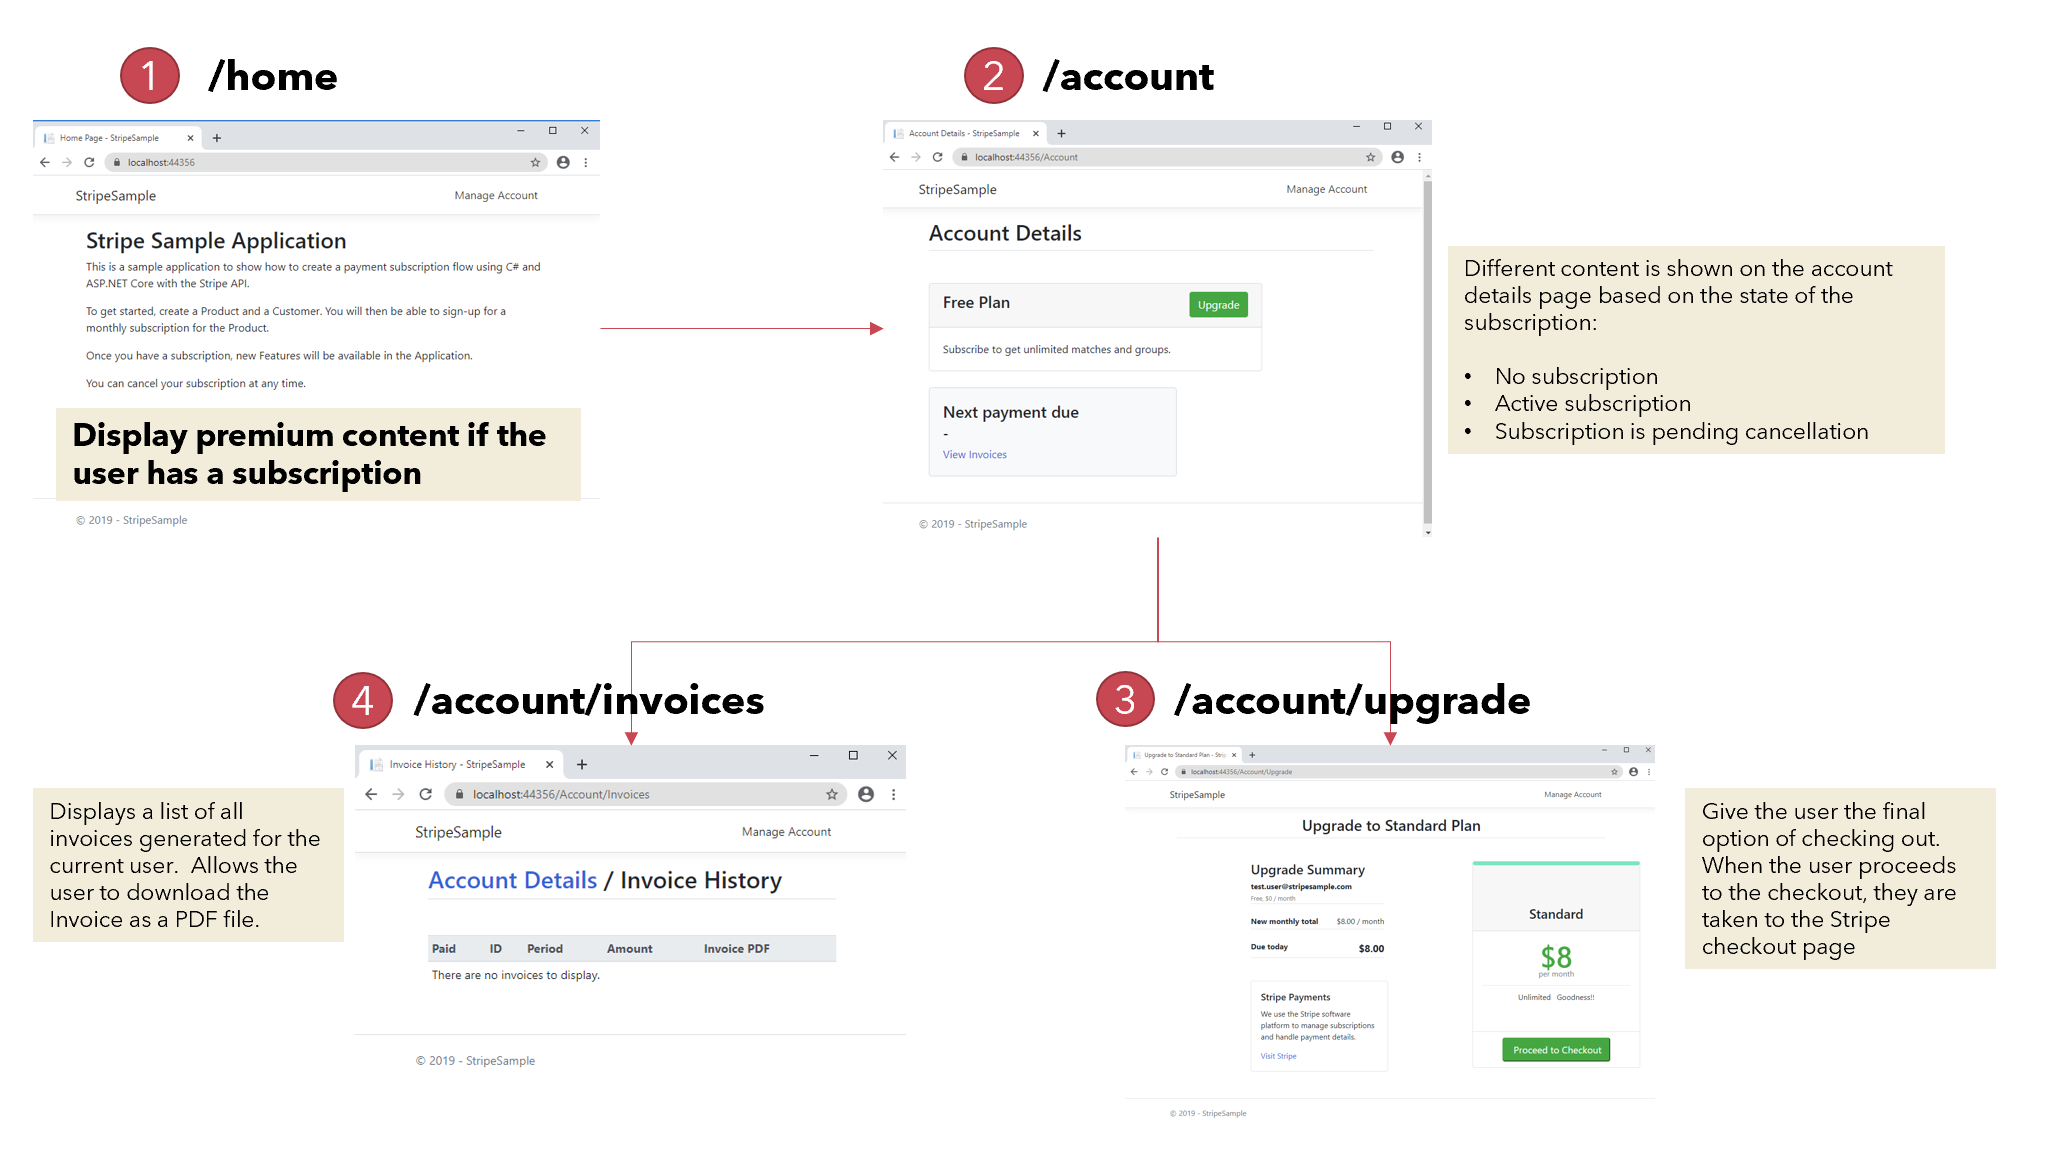
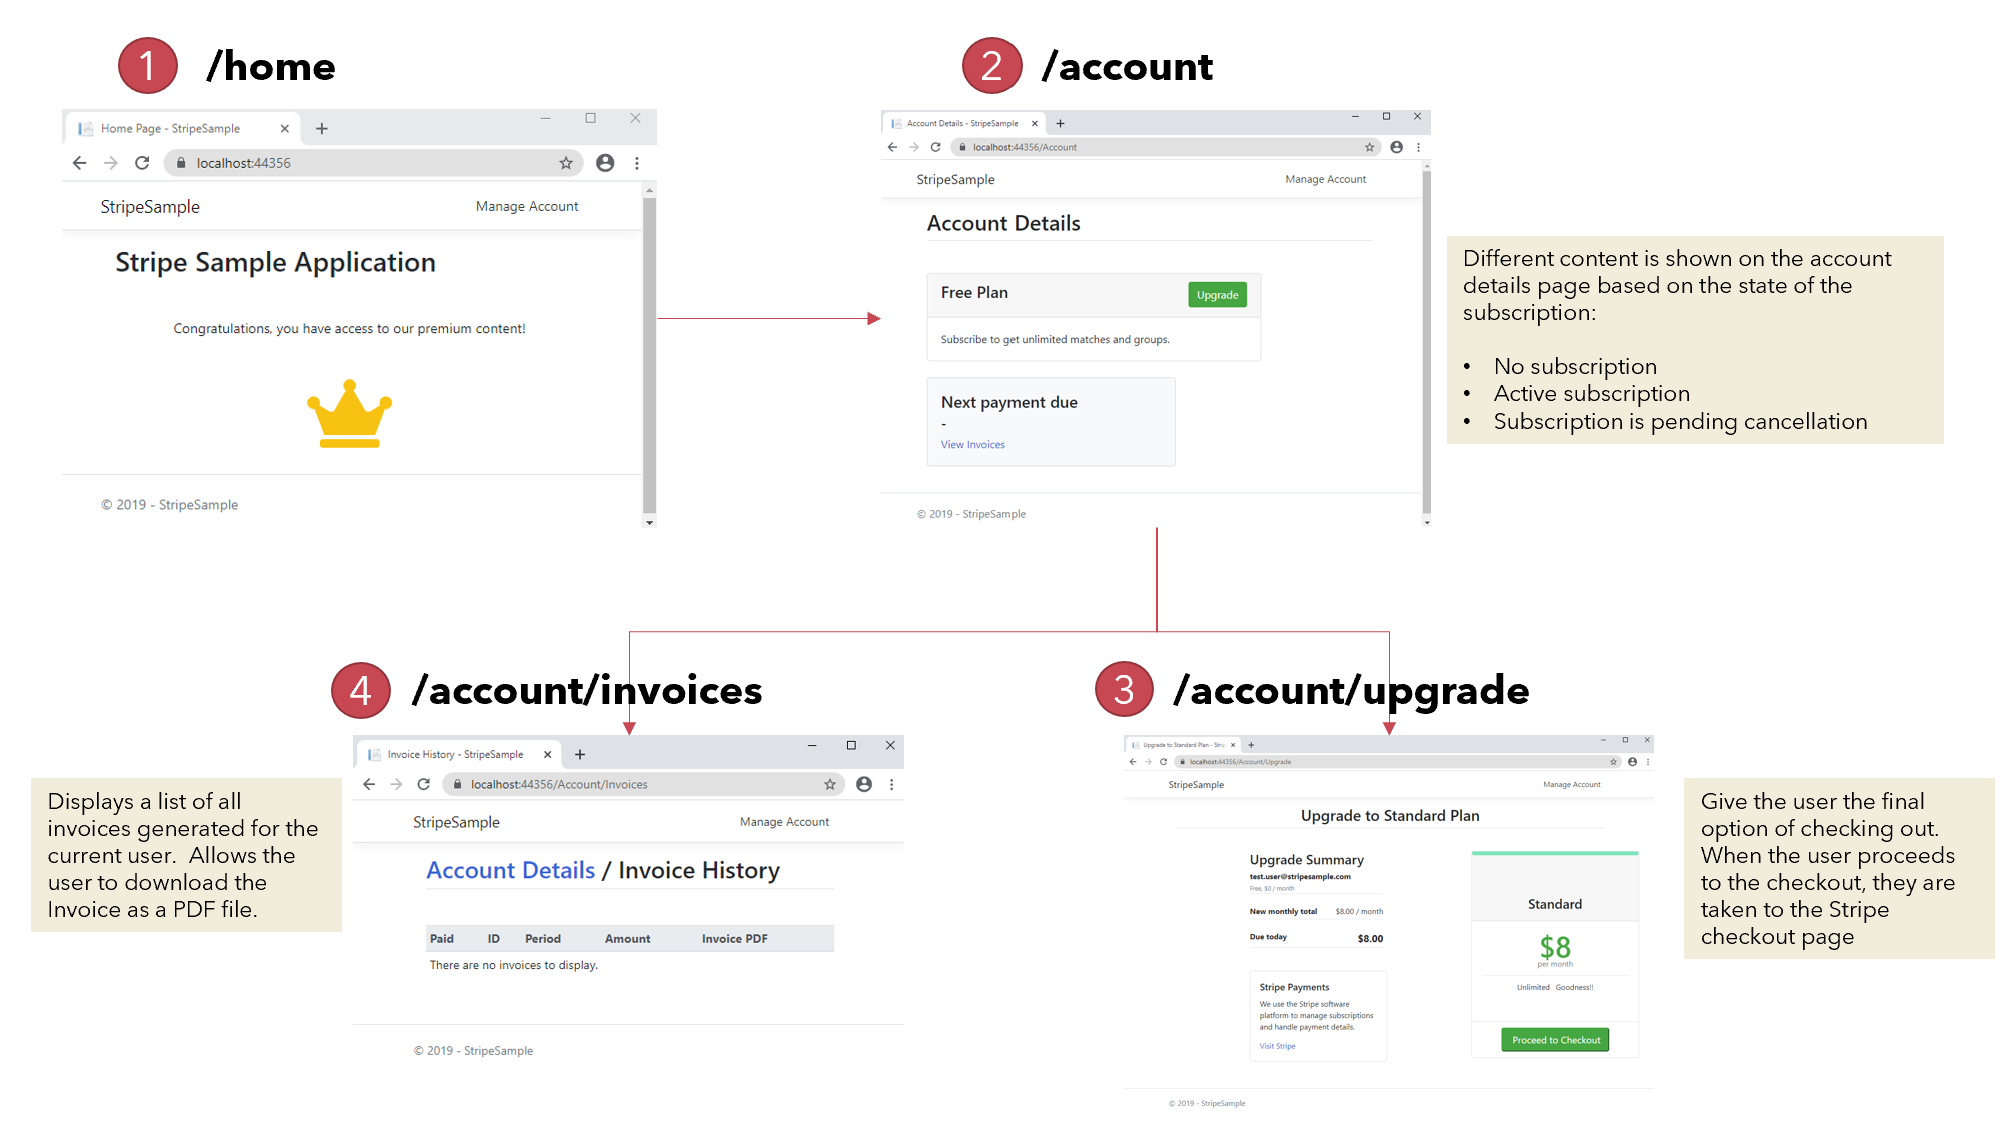
Added view logic

diff --git a/src/StripeSample/Handlers/HomePage.cs b/src/StripeSample/Handlers/HomePage.cs
@@ -1,0 +1,57 @@
+using MediatR;
+using Microsoft.EntityFrameworkCore;
+using StripeSample.Domain;
+using StripeSample.Infrastructure.Data;
+using System.Linq;
+using System.Threading;
+using System.Threading.Tasks;
+
+namespace StripeSample.Handlers
+{
+    public static class HomePage
+    {
+        public class Request : IRequest<ViewModel>
+        {
+
+        }
+
+        public class ViewModel
+        {
+            public ViewModel(bool hasSubscription)
+            {
+                HasSubscription = hasSubscription;
+            }
+
+            public bool HasSubscription { get; set; } = false;
+        }
+
+
+        public class RequestHandler : IRequestHandler<Request, ViewModel>
+        {
+            private readonly SubscriptionsContext _dbContext;
+            private readonly UserContext _userContext;
+
+            public RequestHandler(SubscriptionsContext dbContext, UserContext userContext)
+            {
+                _dbContext = dbContext;
+                _userContext = userContext;
+            }
+
+
+            public async Task<ViewModel> Handle(Request request, CancellationToken cancellationToken)
+            {
+                var customer = await _dbContext.Customer
+                    .Include(x => x.Subscriptions).ThenInclude(x => x.Status)
+                    .FirstOrDefaultAsync(x => x.IdentityKey == _userContext.Id.ToString());
+
+                if (customer == null)
+                {
+                    return new ViewModel(false);
+                }
+
+                var hasSubscription = customer.Subscriptions.Any(x => x.Status.Id == SubscriptionStatus.Active.Id);
+                return new ViewModel(hasSubscription);
+            }
+        }
+    }
+}

diff --git a/src/StripeSample/Controllers/HomeController.cs b/src/StripeSample/Controllers/HomeController.cs
@@ -1,17 +1,23 @@
-using Microsoft.AspNetCore.Mvc;
+using MediatR;
+using Microsoft.AspNetCore.Mvc;
+using StripeSample.Handlers;
+using System.Threading.Tasks;
 
 namespace StripeSample.Controllers
 {
     public class HomeController : Controller
     {
-        public HomeController()
-        {
+        private readonly IMediator _mediator;
 
+        public HomeController(IMediator mediator)
+        {
+            _mediator = mediator;
         }
 
-        public IActionResult Index()
+        public async Task<IActionResult> Index()
         {
-            return View();
+            var result = await _mediator.Send(new HomePage.Request());
+            return View(result);
         }
     }
 }

diff --git a/src/StripeSample/Handlers/SubscriptionDetails.cs b/src/StripeSample/Handlers/SubscriptionDetails.cs
@@ -18,8 +18,8 @@ namespace StripeSample.Handlers
 
         public class ViewModel
         {
-            const string _freeDescription = "Subscribe to get unlimited matches and groups.";
-            const string _paidDescription = "You have access to unlimited matches and groups.";
+            const string _freeDescription = "Subscribe to get premium content.";
+            const string _paidDescription = "You have access to premium content.";
 
             public ViewModel(Customer customer = null)
             {

diff --git a/src/StripeSample/Controllers/WebhookController.cs b/src/StripeSample/Controllers/WebhookController.cs
@@ -40,7 +40,7 @@ namespace StripeSample.Controllers
             _logger = logger;
         }
 
-        public async Task<IAsyncResult> Webhook()
+        public async Task<IAsyncResult> Handle()
         {
             Event stripeEvent;
 

diff --git a/src/StripeSample/Domain/BaseClasses.cs b/src/StripeSample/Domain/BaseClasses.cs
@@ -1,7 +1,4 @@
 using System;
-using System.Collections.Generic;
-using System.Linq;
-using System.Threading.Tasks;
 
 namespace StripeSample.Domain
 {

diff --git a/src/StripeSample/Domain/Cart.cs b/src/StripeSample/Domain/Cart.cs
@@ -1,5 +1,4 @@
 
-
 namespace StripeSample.Domain
 {
     public class Cart : Entity

diff --git a/readme.md b/readme.md
@@ -35,7 +35,7 @@ Login to your [Stripe dashboard](https://dashboard.stripe.com) and create a Prod
 Install the [Stripe CLI](https://github.com/stripe/stripe-cli) and run the following command to start listening.
 
 ```ps
-.\stripe.exe listen --forward-to localhost:55965/Home/Webhook
+.\stripe.exe listen --forward-to localhost:55965/Webhook/Handle
 ```
 
 
